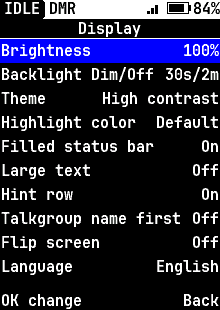
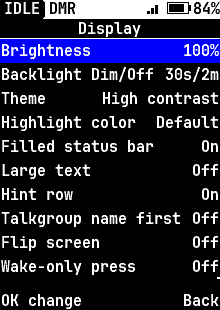
Input: a press that begins on a dark screen only wakes it; Wake-only press setting
A press lights the screen when it begins (the input idle time restarts at the
key going down) but its event comes at the release. ui.c judged "dark" when
the event arrived, so a hold longer than one UI pass found the screen already
lit and the key acted: a menu key opened the menu on an off screen, against
the documented rule that a key only wakes it.

- The key engine counts presses (input_downs: a key going down, an encoder
  turn). The UI task samples the count each pass, before the light follows
  the press, and keeps how dark the screen was for that press (off, dim or
  lit); every event of the hold, its long press and repeats too, is judged by
  it (ui_app_swallow_press).
- An off screen always only wakes. A dim screen does with Settings > Display
  > Wake-only press (off by default: a dim screen acts, as before). PTT,
  Monitor and Emergency always act; the volume knob is not an input event.
  "Lit" is the active level, which a low battery caps, so a low battery does
  not turn every press into a wake.
- The setting is a reserved bit of settings_t.sound_flags.

inputTest checks the counter; wake flows cover each screen state and the
setting on and off, with a side key; spec, user guide, translations, gallery.

Claude-Session: https://claude.ai/code/session_01MdiBNQ6CEoU6TQqfu2kZeZ

diff --git a/tests/host/sim/ui_sim.c b/tests/host/sim/ui_sim.c
@@ -744,6 +744,15 @@ bool ui_svc_codeplug_answer(uint8_t answer)
 	return true;
 }
 
+// How the screen was when the next press began (ui_app.h UI_DARK_*): ui.c decides this on the radio; a flow says it with
+// dark:0, dark:1 (dim) or dark:2 (off) and every press until the next dark: goes through the same test
+static uint8_t sim_dark;
+static void sim_key(const input_event_t *ev)
+{
+	if (!ui_app_swallow_press(sim_dark, ev))
+		ui_app_key(ev);
+}
+
 // The settings past the stub's RAM table (UI_SET_RAM_COUNT): the firmware keeps them in the codeplug
 // (ui_svc_storage.c); here they are plain values
 static int32_t sim_late[UI_SET_COUNT - UI_SET_RAM_COUNT];
@@ -2929,7 +2938,7 @@ static void step(void)
 	if (ptt_up_at && now_ms >= ptt_up_at) {
 		ptt_up_at = 0;
 		input_event_t ev = { ACT_PTT, GESTURE_UP, 0 };
-		ui_app_key(&ev);
+		sim_key(&ev);
 		ptt(false);
 	}
 	if (view.dmr.reply_active && view.state != RS_TX && reply_until) {
@@ -2998,6 +3007,7 @@ void ui_svc_next_aes_key(channel_t *c)
 void sim_reset(const sim_geom_t *g, sim_map_t map)
 {
 	emergency_on = false;
+	sim_dark = 0;
 	sim_foreign = sim_held = false;
 	disp.width = g->w;
 	disp.height = g->h;
@@ -3006,6 +3016,7 @@ void sim_reset(const sim_geom_t *g, sim_map_t map)
 	disp.inset_top = disp.inset_bottom = g->inset_tb;
 	disp.set_flip = g->w == 240 && g->h == 320 ? d_set_flip : NULL;
 	ui_svc_setting_set(UI_SET_FLIP, 0);
+	ui_svc_setting_set(UI_SET_WAKE_ONLY, 0);
 	disp.fb_safe_area = g->safe;
 	disp.fill_insets = d_fill_insets;
 	font_aa_on = g->aa;
@@ -3245,7 +3256,7 @@ static bool press(const char *name, bool lng, char *err, size_t len)
 		}
 		input_event_t ev = { ACT_ENC_STEP, GESTURE_DOWN, (int8_t)(name[3] == '+' ? 1 : -1) };
 		presses++;
-		ui_app_key(&ev);
+		sim_key(&ev);
 		advance(PRESS_MS);
 		return true;
 	}
@@ -3259,7 +3270,7 @@ static bool press(const char *name, bool lng, char *err, size_t len)
 					     (uint8_t)(lng ? GESTURE_LONG : GESTURE_PRESS), 0 };
 			presses++;
 			advance(lng ? LONG_MS : PRESS_MS / 2);
-			ui_app_key(&ev);
+			sim_key(&ev);
 			advance(PRESS_MS / 2);
 			return true;
 		}
@@ -3280,16 +3291,16 @@ static bool press(const char *name, bool lng, char *err, size_t len)
 			// radio task outranks the UI): the UI reads the view the edge already changed
 			input_event_t ev = { ACT_MONITOR, GESTURE_DOWN, 0 };
 			radio_req_monitor(true);
-			ui_app_key(&ev);
+			sim_key(&ev);
 			advance(lng ? LONG_MS : PRESS_MS);
 			ev.gesture = GESTURE_UP;
 			radio_req_monitor(false);
-			ui_app_key(&ev);
+			sim_key(&ev);
 			return true;
 		}
 		input_event_t ev = { a, (uint8_t)(lng ? GESTURE_LONG : GESTURE_PRESS), 0 };
 		advance(lng ? LONG_MS : PRESS_MS / 2);
-		ui_app_key(&ev);
+		sim_key(&ev);
 		advance(PRESS_MS / 2);
 		return true;
 	}
@@ -3488,6 +3499,7 @@ static bool check(const char *kv, char *err, size_t len)
 	else if (strcmp(key, "aprs_power") == 0) snprintf(got, sizeof got, "%u", aprs_sim.cfg.power);
 	else if (strcmp(key, "aprs_path") == 0) snprintf(got, sizeof got, "%u", aprs_sim.cfg.path);
 	else if (strcmp(key, "flip") == 0) snprintf(got, sizeof got, "%u", ui_app_flip());
+	else if (strcmp(key, "wakeonly") == 0) snprintf(got, sizeof got, "%d", (int)ui_svc_setting_get(UI_SET_WAKE_ONLY));
 	else if (strcmp(key, "aprs_ssid") == 0) snprintf(got, sizeof got, "%u", aprs_sim.cfg.ssid);
 	else if (strcmp(key, "pos_lat") == 0) snprintf(got, sizeof got, "%d", (int)ui_svc_setting_get(UI_SET_POS_FIXED_LAT));
 	else if (strcmp(key, "pos_lon") == 0) snprintf(got, sizeof got, "%d", (int)ui_svc_setting_get(UI_SET_POS_FIXED_LON));
@@ -3523,7 +3535,7 @@ static bool run_token(char *t, char *err, size_t len)
 		}
 		presses++;
 		input_event_t ev = { ACT_PTT, GESTURE_DOWN, 0 };
-		ui_app_key(&ev);
+		sim_key(&ev);
 		if (!ptt_blocked)
 			ptt(true);
 		ptt_up_at = now_ms + ms;
@@ -3533,7 +3545,7 @@ static bool run_token(char *t, char *err, size_t len)
 	if (strcmp(t, "pttdown") == 0) {	// PTT held until pttup (for a look at the TX screen)
 		presses++;
 		input_event_t ev = { ACT_PTT, GESTURE_DOWN, 0 };
-		ui_app_key(&ev);
+		sim_key(&ev);
 		if (!ptt_blocked)
 			ptt(true);
 		advance(1500);
@@ -3569,7 +3581,7 @@ static bool run_token(char *t, char *err, size_t len)
 	}
 	if (strcmp(t, "pttup") == 0) {
 		input_event_t ev = { ACT_PTT, GESTURE_UP, 0 };
-		ui_app_key(&ev);
+		sim_key(&ev);
 		ptt(false);
 		advance(200);
 		return true;
@@ -3640,7 +3652,7 @@ static bool run_token(char *t, char *err, size_t len)
 			presses++;
 		input_event_t ev = { ACT_MONITOR, down ? GESTURE_DOWN : GESTURE_UP, 0 };
 		radio_req_monitor(down);	// the radio first, as on the radio (see `mon`)
-		ui_app_key(&ev);
+		sim_key(&ev);
 		advance(200);
 		return true;
 	}
@@ -4095,6 +4107,10 @@ static bool run_token(char *t, char *err, size_t len)
 		return true;
 	}
 #endif
+	if (strcmp(t, "dark") == 0 && arg != NULL) {	// dark:0 lit, dark:1 dim, dark:2 off: how the screen is for the presses after
+		sim_dark = (uint8_t)atoi(arg);
+		return true;
+	}
 #if CONFIG_SCAN_LIST
 	if (strcmp(t, "scanlists") == 0 && arg != NULL) {	// scanlists:on (an empty store) or scanlists:seed
 		slist_sim.on = true;
@@ -4373,7 +4389,7 @@ static bool run_token(char *t, char *err, size_t len)
 		sim_satellite_predicting = false;
 		input_event_t ev = { ACT_SELECT, GESTURE_PRESS, 0 };
 		presses++;
-		ui_app_key(&ev);
+		sim_key(&ev);
 		advance(200);
 		return true;
 	}

diff --git a/tests/host/uiFlowTest.c b/tests/host/uiFlowTest.c
@@ -1724,6 +1724,29 @@ static const flow_t flip_flows[] = {
 	{ "Flip: turned, OK still opens the menu", "flipkey", "ok", "screen=hub", 1, false },
 };
 
+// A press on a dark screen (ui.c judges it when it begins: dark:0 lit, dark:1 dim, dark:2 off). Settings > Display >
+// Wake-only press follows Flip screen; on it only wakes a dim screen, an off screen is always only woken
+#define WAKE_ROW_DOWNS	FLIP_ROW_DOWNS " down"
+static const flow_t wake_flows[] = {
+	{ "Wake: off by default", "", "", "wakeonly=0", 0, false },
+	{ "Wake: a lit screen, a press acts", "dark:0", "ok", "screen=hub", 1, false },
+	{ "Wake: an off screen, a press only wakes", "dark:2", "ok", "screen=home", 1, false },
+	{ "Wake: an off screen, then the next press acts", "dark:2 ok dark:0", "ok", "screen=hub", 1, false },
+	{ "Wake: a dim screen acts when the setting is off", "dark:1", "ok", "screen=hub", 1, false },
+};
+// The Display row is on the panels that can turn (its place follows Flip screen's)
+static const flow_t wake_menu_flows[] = {
+	{ "Wake: the row", "ok 7 2 " WAKE_ROW_DOWNS, "ok", "wakeonly=1", 1, false },
+	{ "Wake: on, a dim screen only wakes", "ok 7 2 " WAKE_ROW_DOWNS " ok back back back dark:1", "ok", "screen=home wakeonly=1", 1,
+	  false },
+	{ "Wake: on, a lit screen acts", "ok 7 2 " WAKE_ROW_DOWNS " ok back back back dark:0", "ok", "screen=hub", 1, false },
+	{ "Wake: on, an off screen only wakes", "ok 7 2 " WAKE_ROW_DOWNS " ok back back back dark:2", "ok", "screen=home", 1, false },
+	{ "Wake: on, a side key on a dim screen only wakes", "ok 7 2 " WAKE_ROW_DOWNS " ok back back back dark:1", "scankey",
+	  "scanning=0", 1, false },
+	{ "Wake: on, a side key on a lit screen acts", "ok 7 2 " WAKE_ROW_DOWNS " ok back back back dark:0", "scankey",
+	  "scanning=1", 1, false },
+};
+
 static void run_flow(const flow_t *f, const sim_geom_t *g, sim_map_t map, const char *mapname)
 {
 	char err[300];
@@ -2713,6 +2736,11 @@ int main(void)
 		if (strcmp(runs[r].geom, "240x320") == 0)
 			for (size_t i = 0; i < sizeof flip_flows / sizeof flip_flows[0]; i++)
 				run_flow(&flip_flows[i], g, runs[r].map, runs[r].name);
+		for (size_t i = 0; i < sizeof wake_flows / sizeof wake_flows[0]; i++)
+			run_flow(&wake_flows[i], g, runs[r].map, runs[r].name);
+		if (strcmp(runs[r].geom, "240x320") == 0)
+			for (size_t i = 0; i < sizeof wake_menu_flows / sizeof wake_menu_flows[0]; i++)
+				run_flow(&wake_menu_flows[i], g, runs[r].map, runs[r].name);
 #if CONFIG_SAT
 		// The grid locator on the Tracking screen, on the tall panel; beside the plot it shares the countdown's row only
 		// when it fits, and none of the test displays is wide enough

diff --git a/core/ui/ui.c b/core/ui/ui.c
@@ -92,6 +92,33 @@ static uint8_t backlight_target(uint32_t now)
 	return radio_backlight_pct(ui_app_brightness(), idle);
 }
 
+// How dark the screen is now (ui_app.h UI_DARK_*): off, or dimmer than the active level (which a low battery caps)
+static uint8_t dark_now(void)
+{
+#if CONFIG_BACKLIGHT_TEST
+	if (ui_app_backlight_hold() >= 0)
+		return UI_DARK_LIT;	// the backlight tests hold the light: a key doesn't just wake it
+#endif
+	if (backlight_now == 0)
+		return UI_DARK_OFF;
+	return backlight_now < radio_backlight_pct(ui_app_brightness(), 0) ? UI_DARK_DIM : UI_DARK_LIT;
+}
+
+// A press lights the screen when it begins (the input idle time restarts at once), but its event comes at its release,
+// after the light is on. So each press is judged when it is first seen, before the light follows it: press_dark is how
+// the screen was for the press the events now belong to
+static uint8_t press_dark;
+static uint32_t downs_seen;
+
+static void sample_presses(void)
+{
+	uint32_t d = input_downs();
+	if (d != downs_seen) {
+		downs_seen = d;
+		press_dark = dark_now();
+	}
+}
+
 const char *ui_screen_name(void)
 {
 	return status.screen != NULL ? status.screen : "home";
@@ -168,12 +195,9 @@ static void ui_task(void *arg)
 			radio_get_view(&view);
 		}
 		if (got) {
-			bool was_off = backlight_now == 0;
-#if CONFIG_BACKLIGHT_TEST
-			was_off = was_off && ui_app_backlight_hold() < 0;	// a key wakes the light, but not in the tests
-#endif
+			sample_presses();	// a press that began since the last pass: was the screen dark when it did?
 			set_backlight(ui_app_brightness());
-			if (!was_off || ui_app_key_while_dark(&ev))
+			if (!ui_app_swallow_press(press_dark, &ev))
 				ui_app_key(&ev);
 			dirty = true;
 		}
@@ -189,6 +213,7 @@ static void ui_task(void *arg)
 			dirty = true;
 		if (ui_app_take_wake())
 			radio_active_ms = now;
+		sample_presses();	// before the light follows the press, or it would look lit
 		set_backlight(backlight_target(now));
 
 		if (dirty && have_fb && now - last_draw >= FRAME_MIN_MS && !gfx_held(now) &&

diff --git a/tests/host/inputTest.c b/tests/host/inputTest.c
@@ -227,6 +227,32 @@ static void test_encoder_idle(void)
 	CHECK(now - e.last_activity_ms == 0);	// holding a key counts as activity
 }
 
+// The press counter the UI uses to tell whether the screen was dark when a press began (ui.c): it counts at the key going
+// down, before the event at the release, and counts an encoder turn; a hold is one press; a key held at start-up is none
+static void test_downs(void)
+{
+	reset(0);
+	CHECK(e.downs == 0);
+	run(500, 0);
+	CHECK(e.downs == 0);			// nothing pressed: nothing counted
+	keys = 1u << K_OK;
+	run(60, 0);
+	CHECK(e.downs == 1 && nev == 0);	// counted at the press, before its event
+	run(2000, 0);
+	CHECK(e.downs == 1);			// held (the long press and its repeats too): one press
+	keys = 0;
+	run(60, 0);
+	CHECK(e.downs == 1);
+	run(INPUT_SCAN_MS, 1);
+	CHECK(e.downs == 2);			// an encoder turn
+	keys = (1u << K_OK) | (1u << K_5);
+	run(60, 0);
+	CHECK(e.downs == 4);			// two keys, two presses
+	reset(1u << K_OK);
+	run(500, 0);
+	CHECK(e.downs == 0);			// held at power-on: not a press
+}
+
 // DTMF keys (radio-features.md 3.7): their edges go to the callback; a hold it takes sends no gestures
 static bool dtmf_take;
 static char dtmf_log[16];
@@ -355,6 +381,7 @@ int main(void)
 	test_chord();
 	test_held_at_start();
 	test_encoder_idle();
+	test_downs();
 	test_dtmf();
 	test_inject_late_scans();
 	printf("# inputTest: %d checks, %s\n", checks, failures ? "FAILED" : "PASSED");

diff --git a/core/ui/ui_svc_storage.c b/core/ui/ui_svc_storage.c
@@ -362,6 +362,8 @@ static __attribute__((noinline)) int32_t setting_get_flash(uint8_t id)
 		return (SETTINGS_FIELD(updown_home) & SETTINGS_HOME_LABEL_FIRST) != 0;
 	case UI_SET_FLIP:
 		return (SETTINGS_FIELD(sound_flags) & SETTINGS_SCREEN_FLIP) != 0;
+	case UI_SET_WAKE_ONLY:
+		return (SETTINGS_FIELD(sound_flags) & SETTINGS_WAKE_ONLY) != 0;
 	case UI_SET_LOW_BATTERY:
 		return SETTINGS_FIELD(low_batt_pct);
 	case UI_SET_AUTO_OFF_MIN:
@@ -564,6 +566,12 @@ bool ui_svc_setting_set(uint8_t id, int32_t value)
 		st = settings_begin();
 		st->sound_flags = (uint8_t)(value != 0 ? st->sound_flags | SETTINGS_SCREEN_FLIP :
 					    st->sound_flags & ~SETTINGS_SCREEN_FLIP);
+		settings_end(hal_millis());
+		return true;
+	case UI_SET_WAKE_ONLY:
+		st = settings_begin();
+		st->sound_flags = (uint8_t)(value != 0 ? st->sound_flags | SETTINGS_WAKE_ONLY :
+					    st->sound_flags & ~SETTINGS_WAKE_ONLY);
 		settings_end(hal_millis());
 		return true;
 	case UI_SET_VIBRATE:

diff --git a/core/ui/ui_app.h b/core/ui/ui_app.h
@@ -17,6 +17,13 @@ void ui_app_init(void);
 void ui_app_key(const input_event_t *ev);
 // A key pressed with the backlight off only wakes the light, except these: they act at once (ui.c)
 bool ui_app_key_while_dark(const input_event_t *ev);
+// Whether a press only wakes the screen and does nothing else. dark: how the screen was when the press began
+// (UI_DARK_LIT, UI_DARK_DIM, UI_DARK_OFF). An off screen always swallows it; a dim one only with Settings > Display >
+// Wake-only press. PTT, Monitor and Emergency always act (ui_app_key_while_dark)
+#define UI_DARK_LIT	0
+#define UI_DARK_DIM	1
+#define UI_DARK_OFF	2
+bool ui_app_swallow_press(uint8_t dark, const input_event_t *ev);
 // Time passes and the radio view may have changed: timeouts, banners, Recent. True if the screen should be redrawn
 bool ui_app_tick(const radio_view_t *v, uint32_t now_ms);
 // Draw the current screen into the frame buffer (no flush)

diff --git a/core/settings/settings.h b/core/settings/settings.h
@@ -425,6 +425,9 @@ static inline void settings_set_crash_contact(settings_t *s, uint16_t num)
 // The picture turned 180 degrees (Settings > Display > Flip screen, hal_display_t.set_flip). Not a sound: a reserved bit
 // of a byte that was free, as settings_t has no spare byte and its copies sit on stacks with none to spare either
 #define SETTINGS_SCREEN_FLIP		0x02u
+// A press on a dim screen only wakes it (Settings > Display > Wake-only press); on an off screen it always does. Another
+// reserved bit of that byte
+#define SETTINGS_WAKE_ONLY		0x04u
 #define SETTINGS_TONES_OFF_SHIFT	4	// radio_settings_t.tones_off, the radio's own copy of the codeplug's tone keys
 #define SETTINGS_TONES_OFF_MASK		0xF0u
 

diff --git a/core/input/input.h b/core/input/input.h
@@ -18,6 +18,10 @@ bool input_next(input_event_t *ev, uint32_t wait_ms);
 bool input_pending(void);
 // Milliseconds since the last key or encoder activity (backlight time-out)
 uint32_t input_idle_ms(void);
+// Key presses begun since start (a key going down, an encoder turn). A press lights the screen when it begins and its
+// event comes at its release, so the UI compares this count between passes to see whether the screen was dark when a
+// press began (ui.c)
+uint32_t input_downs(void);
 // Raw state for the diagnostics page: physical key bits held now, encoder detents since start
 uint32_t input_raw_keys(void);
 int32_t input_encoder_total(void);

diff --git a/core/input/input_engine.c b/core/input/input_engine.c
@@ -52,6 +52,9 @@ void input_engine_step(input_engine_t *e, uint32_t raw, int8_t enc, uint32_t now
 	if (held != e->held || held != 0 || enc != 0) {
 		e->last_activity_ms = now_ms;
 	}
+	if (enc != 0) {
+		e->downs++;
+	}
 	e->held = held;
 	held &= ~e->ignore;
 	uint32_t long_ms = e->long_ms != 0 ? e->long_ms : INPUT_LONG_MS;
@@ -63,6 +66,7 @@ void input_engine_step(input_engine_t *e, uint32_t raw, int8_t enc, uint32_t now
 		bool down = m->bit < 32 && (held & (1u << m->bit)) != 0;
 
 		if (down && !k->down) {
+			e->downs++;
 			k->down = true;
 			k->long_done = false;
 			k->t_down = now_ms;

diff --git a/core/input/input_engine.h b/core/input/input_engine.h
@@ -54,6 +54,8 @@ typedef struct {
 	uint32_t held;		// debounced mask
 	uint32_t ignore;	// keys held at start-up, ignored until released (no TX from a PTT held at power-on)
 	uint32_t last_activity_ms;
+	uint32_t downs;		// key presses (a key going down, an encoder turn) since start: the UI asks whether the screen was dark
+				// when one began, which the event at its release can't say
 	uint16_t long_ms;	// long press threshold, 0 = INPUT_LONG_MS
 	uint16_t repeat_ms;	// repeat period, 0 = INPUT_REPEAT_MS
 	input_dtmf_t dtmf;	// DTMF keys' edges (NULL = none)

diff --git a/core/ui/ui_menus.c b/core/ui/ui_menus.c
@@ -6882,6 +6882,7 @@ static const set_item_t s_display[] = {
 		UI_SET_LABEL_FIRST),
 #endif
 	TOGGLE(TRN(WORD_FLIP_SCREEN, "Flip screen"), "rotate upside down belt clip turn", UI_SET_FLIP),
+	TOGGLE(TRN(SET_LABEL_WAKE_ONLY, "Wake-only press"), "dim dark screen first key press wakes only ignore", UI_SET_WAKE_ONLY),
 	// Last, so the rows above keep their places; its search words are "language" in other languages, for a user who
 	// can't read the English
 	ACTION(TRN(SET_LABEL_LANGUAGE, "Language"), "idioma langue sprache lingua taal jezyk", SA_LANGUAGE),

diff --git a/core/ui/ui_app.c b/core/ui/ui_app.c
@@ -2131,6 +2131,13 @@ bool ui_app_key_while_dark(const input_event_t *ev)
 	return ev->action == ACT_PTT || ev->action == ACT_MONITOR || ev->action == ACT_EMERGENCY;
 }
 
+bool ui_app_swallow_press(uint8_t dark, const input_event_t *ev)
+{
+	if (dark == UI_DARK_LIT || ui_app_key_while_dark(ev))
+		return false;
+	return dark == UI_DARK_OFF || ui_svc_setting_get(UI_SET_WAKE_ONLY) != 0;
+}
+
 static bool emergency_key(const input_event_t *ev)
 {
 	if (ev->action != ACT_EMERGENCY || ev->gesture != GESTURE_LONG)
